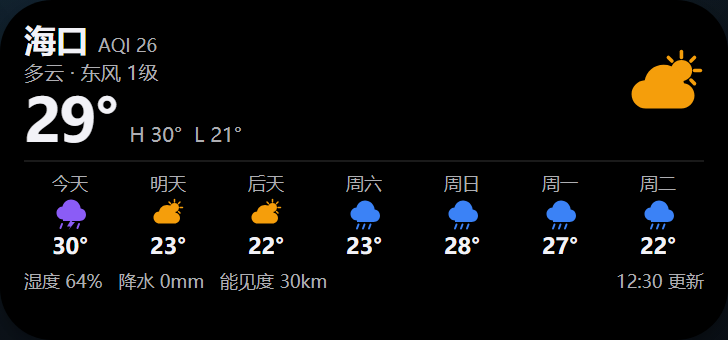
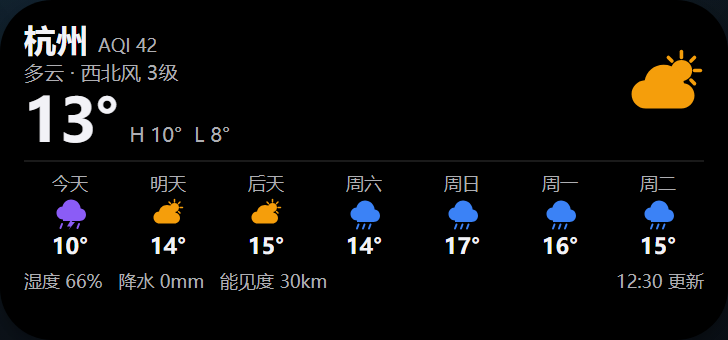
Default to Hangzhou and refresh previews

diff --git a/preview/预览.html b/preview/预览.html
@@ -166,7 +166,7 @@
 <div class="page">
   <div class="eyebrow">SCRIPTING WIDGET · LARGE · 364 × 382</div>
   <h1>中国天气 · 大号组件</h1>
-  <p class="sub">海口 · 2026 年 11 月 18 日 · 数据示例来自中国天气网</p>
+  <p class="sub">杭州 · 2026 年 11 月 18 日 · 数据示例来自中国天气网</p>
   <div class="chips">
     <span>日历 + 时钟</span><span>今日天气</span><span>明天 / 后天</span><span>生活指数</span>
   </div>
@@ -199,14 +199,14 @@
           <circle cx="15.2" cy="8.6" r="4.6" fill="#FF9500"/>
           <path d="M6.2 18.4h10.9a3.7 3.7 0 0 0 .4-7.4 5.6 5.6 0 0 0-10.7 1.4 3.3 3.3 0 0 0-.6 6z" fill="#0A84FF"/>
         </svg>
-        <div class="l-temp">29°</div>
+        <div class="l-temp">13°</div>
         <div class="l-cond">
-          <div class="l-hl">30°-21°</div>
-          <div class="l-city">海口 多云</div>
+          <div class="l-hl">10°-8°</div>
+          <div class="l-city">杭州 多云</div>
         </div>
         <div class="l-rightinfo">
-          <span>AQI 26</span>
-          <span>东南风 3级</span>
+          <span>AQI 42</span>
+          <span>西北风 3级</span>
         </div>
       </div>
 
@@ -216,12 +216,12 @@
         <div class="l-nextcard">
           <span class="lab">明天</span>
           <svg viewBox="0 0 24 24" aria-hidden="true"><circle cx="15" cy="9" r="4.5" fill="#FF9500"/><path d="M6 18h10.5a3.5 3.5 0 0 0 .4-7 5.4 5.4 0 0 0-10.2 1.3A3.2 3.2 0 0 0 6 18z" fill="#0A84FF"/></svg>
-          <span class="val">23°-30°</span>
+          <span class="val">14°-10°</span>
         </div>
         <div class="l-nextcard">
           <span class="lab">后天</span>
           <svg viewBox="0 0 24 24" aria-hidden="true"><circle cx="15" cy="9" r="4.5" fill="#FF9500"/><path d="M6 18h10.5a3.5 3.5 0 0 0 .4-7 5.4 5.4 0 0 0-10.2 1.3A3.2 3.2 0 0 0 6 18z" fill="#FF9500"/></svg>
-          <span class="val">22°-30°</span>
+          <span class="val">15°-10°</span>
         </div>
       </div>
 
@@ -265,14 +265,14 @@
           <circle cx="15.2" cy="8.6" r="4.6" fill="#FF9500"/>
           <path d="M6.2 18.4h10.9a3.7 3.7 0 0 0 .4-7.4 5.6 5.6 0 0 0-10.7 1.4 3.3 3.3 0 0 0-.6 6z" fill="#0A84FF"/>
         </svg>
-        <div class="l-temp">29°</div>
+        <div class="l-temp">13°</div>
         <div class="l-cond">
-          <div class="l-hl">30°-21°</div>
-          <div class="l-city">海口 多云</div>
+          <div class="l-hl">10°-8°</div>
+          <div class="l-city">杭州 多云</div>
         </div>
         <div class="l-rightinfo">
-          <span>AQI 26</span>
-          <span>东南风 3级</span>
+          <span>AQI 42</span>
+          <span>西北风 3级</span>
         </div>
       </div>
 
@@ -282,12 +282,12 @@
         <div class="l-nextcard">
           <span class="lab">明天</span>
           <svg viewBox="0 0 24 24" aria-hidden="true"><circle cx="15" cy="9" r="4.5" fill="#FF9500"/><path d="M6 18h10.5a3.5 3.5 0 0 0 .4-7 5.4 5.4 0 0 0-10.2 1.3A3.2 3.2 0 0 0 6 18z" fill="#0A84FF"/></svg>
-          <span class="val">23°-30°</span>
+          <span class="val">14°-10°</span>
         </div>
         <div class="l-nextcard">
           <span class="lab">后天</span>
           <svg viewBox="0 0 24 24" aria-hidden="true"><circle cx="15" cy="9" r="4.5" fill="#FF9500"/><path d="M6 18h10.5a3.5 3.5 0 0 0 .4-7 5.4 5.4 0 0 0-10.2 1.3A3.2 3.2 0 0 0 6 18z" fill="#FF9500"/></svg>
-          <span class="val">22°-30°</span>
+          <span class="val">15°-10°</span>
         </div>
       </div>
 

diff --git a/index.tsx b/index.tsx
@@ -54,13 +54,13 @@ function Page() {
 
         <Text font="headline">设置城市</Text>
         <Text font="footnote">
-          在“编辑小组件”的参数里填：海口
+          在“编辑小组件”的参数里填：杭州
         </Text>
         <Text font="footnote">
-          也可以填 JSON：{"{"}"city":"海口","name":"小明"{"}"}
+          也可以填 JSON：{"{"}"city":"杭州","name":"你的昵称"{"}"}
         </Text>
         <Text font="footnote" foregroundStyle="secondaryLabel">
-          不填参数时使用 widget.tsx 顶部 DEFAULT_CITY 的值，默认是海口。
+          不填参数时使用 widget.tsx 顶部 DEFAULT_CITY 的值，默认是杭州。
         </Text>
 
         <Text font="headline">隐私</Text>

diff --git a/widget.tsx b/widget.tsx
@@ -19,12 +19,12 @@ import {
  * 3. 运行 index.tsx 预览，或到桌面添加 Scripting 小组件。
  *
  * 城市可以改下面的 DEFAULT_CITY，也可以在小工具“编辑小组件”的
- * 参数里填：海口   或   {"city":"海口","name":"小明"}
+ * 参数里填：杭州   或   {"city":"杭州","name":"你的昵称"}
  *
  * 数据只来自中国天气网（weather.com.cn），不读取定位、不上传设备信息。
  * ------------------------------------------------------------------ */
 
-const DEFAULT_CITY = "海口"
+const DEFAULT_CITY = "杭州"
 const REFRESH_MINUTES = 30
 
 type DynamicColor = { light: string; dark: string }

diff --git a/README.md b/README.md
@@ -77,16 +77,16 @@ https://www.scripting.fun/import_scripts/?urls=["https://raw.githubusercontent.c
 在「编辑小组件」的参数里填：
 
 ```text
-海口
+杭州
 ```
 
 或者带问候语名字的 JSON：
 
 ```json
-{"city":"海口","name":"小明"}
+{"city":"杭州","name":"你的昵称"}
 ```
 
-不填时使用 `widget.tsx` 顶部的 `DEFAULT_CITY`，默认值是 `海口`。
+不填时使用 `widget.tsx` 顶部的 `DEFAULT_CITY`，默认值是 `杭州`（浙江）。
 
 常用城市内置了编码，其他城市会自动请求中国天气网的搜索接口。找不到城市时会显示错误卡片，不会静默回退到北京。
 
@@ -107,11 +107,11 @@ https://www.scripting.fun/import_scripts/?urls=["https://raw.githubusercontent.c
 - 只访问 `toy1.weather.com.cn`、`d1.weather.com.cn`、`www.weather.com.cn` 三个 HTTPS 域名。
 - 只有 3 处 GET，没有 POST、上传、WebSocket、埋点、`eval` 或动态代码。
 - 不读取剪贴板、通讯录、照片、文件、钥匙串、设备标识。
-- **不使用定位**，城市来自参数，默认「海口」。
+- **不使用定位**，城市来自参数，默认「杭州」。
 
 会暴露给中国天气网的只有：公网 IP、查询的城市名，以及伪装成 iPhone Safari 的 User-Agent / Referer。这是在线天气查询无法避免的。
 
-原模块的主要风险是供应链：`script_url` 指向 GitHub 的 `main` 分支，没有固定版本或哈希，作者以后改 JS，Egern 下次刷新就可能执行新代码。本仓库把实现固化在本地，只保留天气请求，并使用 `credentials: "omit"`，不携带 Cookie。
+原模块的主要风险是供应链：`script_url` 指向 GitHub 的 `main` 分支，没有固定版本或哈希，作者以后改 JS，Egern 下次刷新就可能执行新代码。本仓库的远程地址是自己的仓库，只有仓库所有者能推送，风险主要来自账号被盗；仍建议固定到 tag，而不是跟随 `main`。天气请求使用 `credentials: "omit"`，不携带 Cookie。
 
 本项目是第三方改写，不是中国天气网或 Scripting 官方项目。不能替中国天气网或 GitHub 账号本身背书。
 
@@ -128,7 +128,7 @@ preview/                  预览图片和 HTML
 ## 已验证 / 未验证
 
 - 已通过 TSX 语法编译和 TypeScript 类型自检。
-- 已用真实接口验证海口、慈溪的实况、7 天预报、生活指数解析。
+- 已用真实接口验证杭州、慈溪的实况、7 天预报、生活指数解析。
 - 大号已按原始 Egern 布局重新生成预览图：头部中间暂时留空，明天/后天与生活指数居中，生活指数去掉了底色和图标；预览是 HTML 近似渲染。
 - 尚未在真实 iPhone 的 Scripting 宿主里验证最终字体、SF Symbols 和间距；安装后如果排版有偏差，可以按真机截图继续调。
 
